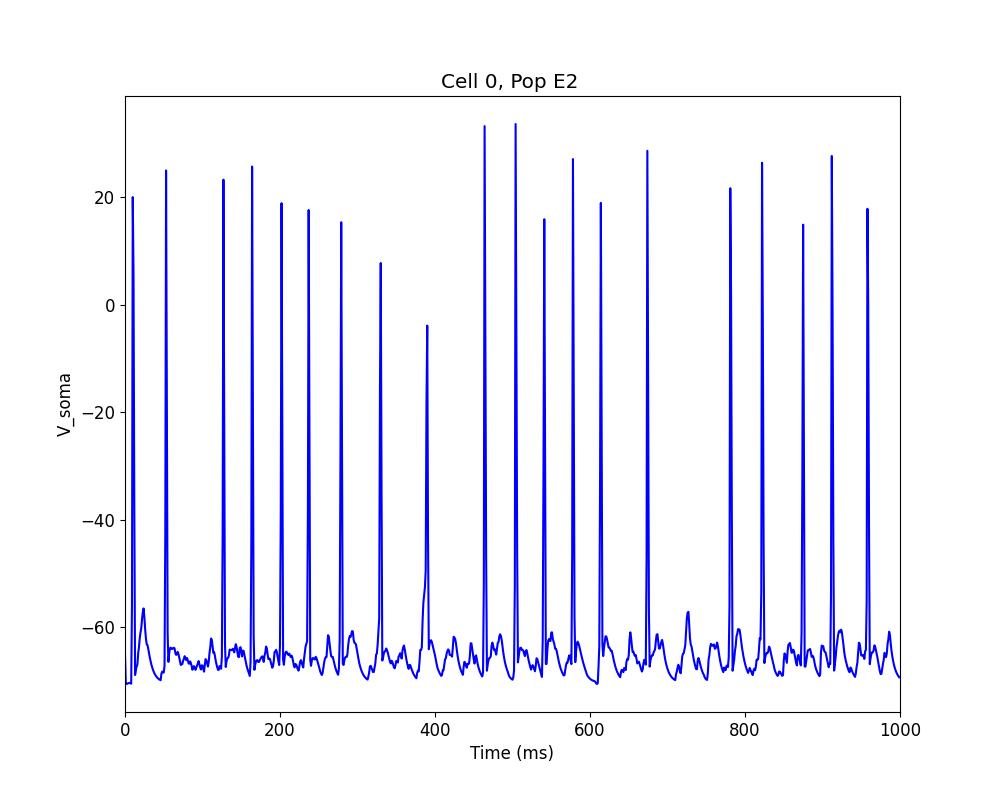
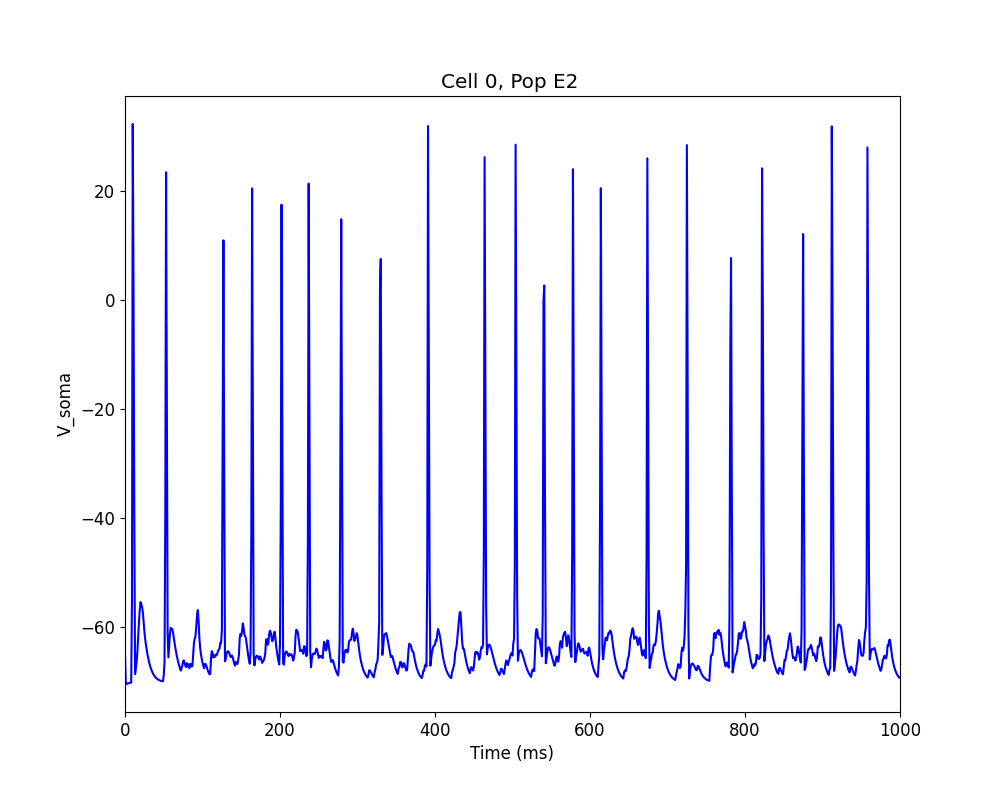
fix: NetPyNE tutorial5. add inhibitory connection

diff --git a/NetPyNE/tutorial5/tut5.py b/NetPyNE/tutorial5/tut5.py
@@ -55,14 +55,14 @@ netParams.connParams['E->all'] = {
         'synMech': 'exc'                      # synaptic mechanism
 }
 
-netParams.connParams['I->E'] = {                          # I -> E
-        'preConds': {'cellType': 'I'},                        # presynaptic conditions
-        'postConds': {'pop': ['E2','E4','E5']},               # postsynaptic conditions
-        'probability': '0.4*exp(-dist_3D/probLengthConst)',   # probability of connection
-        'weight': 0.001,                                      # synaptic weight
-        'delay': 'dist_3D/propVelocity',                      # transmission delay (ms)
-        'synMech': 'inh'                                      # synaptic mechanism
-}
+# netParams.connParams['I->E'] = {                          # I -> E
+#         'preConds': {'cellType': 'I'},                        # presynaptic conditions
+#         'postConds': {'pop': ['E2','E4','E5']},               # postsynaptic conditions
+#         'probability': '0.4*exp(-dist_3D/probLengthConst)',   # probability of connection
+#         'weight': 0.001,                                      # synaptic weight
+#         'delay': 'dist_3D/propVelocity',                      # transmission delay (ms)
+#         'synMech': 'inh'                                      # synaptic mechanism
+# }
 
 # Simulation options
 simConfig = specs.SimConfig()       # object of class SimConfig to store simulation configuration
@@ -78,4 +78,4 @@ simConfig.savePickle = False        # Save params, network and sim output to pic
 simConfig.analysis['plotRaster'] = {'orderBy': 'y', 'orderInverse': True, 'saveFig': True}         # Plot a raster
 simConfig.analysis['plotTraces'] = {'include': [('E2',0), ('E4', 0), ('E5', 5)], 'saveFig': True}  # Plot recorded traces for this list of cells
 simConfig.analysis['plot2Dnet'] = {'saveFig': True}                                                # plot 2D cell positions and connections
-simConfig.analysis['plotConn'] = {'saveFig': True}    
+# simConfig.analysis['plotConn'] = {'saveFig': True}

diff --git a/NetPyNE/tutorial5/tutorial5.py b/NetPyNE/tutorial5/tutorial5.py
@@ -3,3 +3,40 @@ from tut5 import netParams, simConfig
 
 # Network parameters
 sim.createSimulateAnalyze(netParams, simConfig)
+
+import numpy as np
+import matplotlib.pyplot as plt
+
+# 스파이크 데이터 가져오기
+spike_times = sim.allSimData['spkt']  # 스파이크 시간
+spike_ids = sim.allSimData['spkid']  # 스파이크가 발생한 뉴런의 ID
+
+# 각 층의 뉴런 ID 정의 (예: Layer 2와 Layer 5의 ID 범위)
+layer_2_ids = range(0, 100)  # Layer 2의 뉴런 ID (예: 0 ~ 99)
+layer_5_ids = range(200, 300)  # Layer 5의 뉴런 ID (예: 100 ~ 199)
+
+#  Layer 2 스파이크 데이터 필터링
+layer_2_spike_times = [time for time, id in zip(spike_times, spike_ids) if id in layer_2_ids]
+layer_2_spike_ids = [id for id in spike_ids if id in layer_2_ids]
+
+# Layer 5 스파이크 데이터 필터링
+layer_5_spike_times = [time for time, id in zip(spike_times, spike_ids) if id in layer_5_ids]
+layer_5_spike_ids = [id for id in spike_ids if id in layer_5_ids]
+
+# 스파이크 추이 그래프 생성
+plt.figure(figsize=(12, 6))
+
+# Layer 2 스파이크 시각화
+plt.scatter(layer_2_spike_times, layer_2_spike_ids, label="Layer 2", alpha=0.7)
+
+# Layer 5 스파이크 시각화
+plt.scatter(layer_5_spike_times, layer_5_spike_ids, label="Layer 5", alpha=0.7)
+
+# 그래프 설정
+plt.title("Spike Trends in Layers 2 and 5")
+plt.xlabel("Time (ms)")
+plt.ylabel("Neuron ID")
+plt.legend()
+plt.grid(True)
+plt.show()
+
